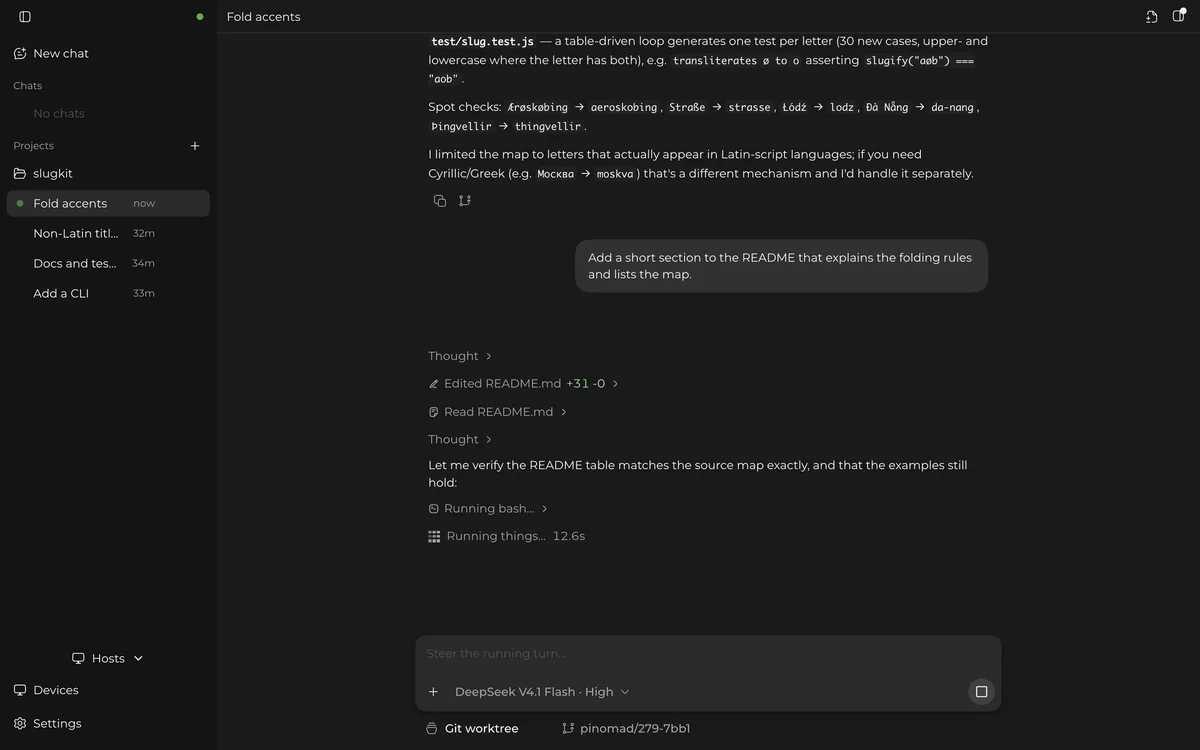
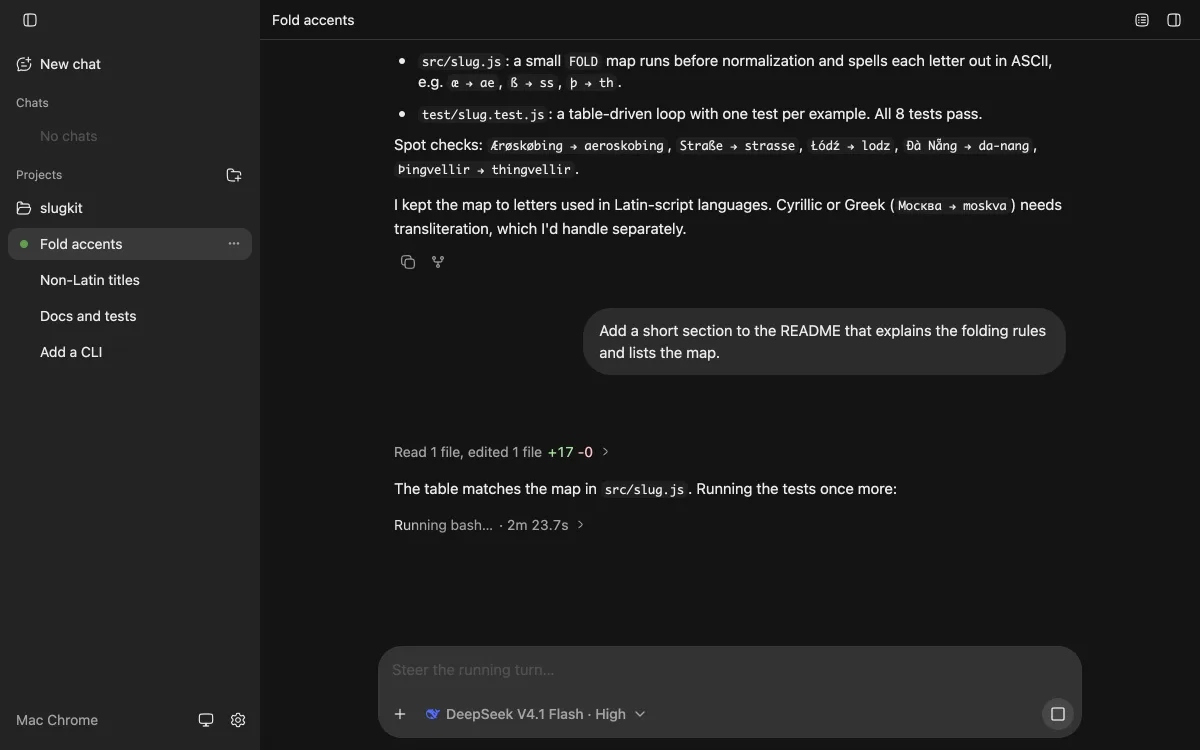
feat(site): real iPhone capture and reshot hero on the same run (#381)
* feat(site): real iPhone capture and reshot hero on the same run

The "Any screen" phone now shows a dark simulator capture of the iOS app
(1206 x 2622, en and zh) instead of the skeleton and its "screenshot
coming" caption; the hero and og:image are reshot so both show the same
run, the "Fold accents" conversation in slugkit, held mid-turn.

Both were staged on a scratch host with its own data dir and a scripted
faux model labelled DeepSeek V4.1 Flash; the read/edit/bash calls ran
for real in a small demo repo, and the last `npm test` is held open so
the run stays live. The hero is the web client in Playwright at
1200 x 750, DPR 2; the phone is a Debug build in the iPhone 17 Pro
simulator paired with -pairingLink. The hero stays the desktop window
alone, as agreed in #364 after #367.

The skeleton and caption CSS is gone with the placeholder copy key;
each image has its own alt text in both languages.

Closes #364

* chore(site): drop the OG image for now

A raw window screenshot shrunk to a share card doesn't read; a purpose-made
image will come later. The landing pages lose og:image and twitter:image,
and twitter:card falls back to summary.

diff --git a/apps/site/src/landing/copy.tsx b/apps/site/src/landing/copy.tsx
@@ -27,7 +27,7 @@ export interface LandingCopy {
     title: string;
     lead: string;
     clients: string[];
-    placeholder: string;
+    shotAlt: string;
   };
   core: {
     eyebrow: string;
@@ -112,14 +112,15 @@ export const copy: Record<Lang, LandingCopy> = {
       models: [...models, "Qwen", "Kimi", "Z.AI", "MiniMax", "OpenRouter", "GitHub Copilot"],
       modelsMore: "17 more",
       shotAlt:
-        "The PiNomad web client mid-run: conversations in the sidebar; the agent has answered, been asked for more, and is now reading and editing files and running commands",
+        "The PiNomad web client mid-run: the slugkit project's conversations in the sidebar; the agent has folded accented letters in slugs, been asked to document the rules in the README, edited it, and is running the tests again",
     },
     anywhere: {
       eyebrow: "Any screen",
       title: "Step away from your desk",
       lead: "Start a task at your desk, then check on it or steer it from your phone. The Mac app, the web client, and the iPhone app attach to the same runs.",
       clients: ["Mac app", "Web", "iPhone"],
-      placeholder: "Screenshot coming: the same run on iPhone.",
+      shotAlt:
+        "The same run in the PiNomad iPhone app: the agent's summary of the accent folding, the README request below it, and the run still going at the bottom with a stop button",
     },
     core: {
       eyebrow: "How it works",
@@ -287,14 +288,14 @@ export const copy: Record<Lang, LandingCopy> = {
       modelsLabel: "pi 支持的模型都能用",
       models: [...models, "通义千问", "Kimi", "智谱 Z.AI", "MiniMax", "OpenRouter", "GitHub Copilot"],
       modelsMore: "另有 17 家",
-      shotAlt: "PiNomad Web 客户端运行画面：左侧是对话列表，agent 答完上一轮后，正顺着追问改测试、跑测试",
+      shotAlt: "PiNomad Web 客户端运行画面：左侧是 slugkit 项目的对话列表；agent 改好了重音字母的折叠，又被要求在 README 里写明规则，改完 README 后正在重跑测试",
     },
     anywhere: {
       eyebrow: "多端接力",
       title: "离开电脑也能接着管",
       lead: "在电脑前派好活，出门拿手机看进度，方向偏了随时插话调整。Mac App、Web 和 iPhone App 连的是同一批任务。",
       clients: ["Mac App", "Web", "iPhone"],
-      placeholder: "截图待补：在 iPhone 上接着看同一个任务。",
+      shotAlt: "同一个任务在 PiNomad iPhone App 里：上面是 agent 对重音字母折叠的总结，下面是写 README 的追问，最底下任务还在跑，旁边是停止按钮",
     },
     core: {
       eyebrow: "工作方式",

diff --git a/apps/site/src/landing/sections.tsx b/apps/site/src/landing/sections.tsx
@@ -20,11 +20,9 @@ export function SectionHead({ id, eyebrow, title, lead }: { id: string; eyebrow:
   );
 }
 
-/**
- * An iPhone drawn in CSS: titanium edge, black bezel, Dynamic Island, side buttons.
- * The screen holds an abstract skeleton until the app's screenshot replaces it.
- */
-function Phone({ caption, className }: { caption: string; className: string }) {
+/** An iPhone drawn in CSS around a screenshot: titanium edge, black bezel, Dynamic Island, side buttons. */
+function Phone({ lang, alt, className }: { lang: Lang; alt: string; className: string }) {
+  const image = shot(lang, "phone", 603, 1206);
   return (
     <figure className={`phone ${className}`}>
       <div className="phone-body">
@@ -34,21 +32,18 @@ function Phone({ caption, className }: { caption: string; className: string }) {
         <span className="phone-btn btn-side" />
         <span className="phone-btn btn-camera" />
         <div className="phone-screen">
-          <div className="shot-skeleton sk-phone" aria-hidden="true">
-            <span className="sk-line w55" />
-            <div className="sk-main">
-              <span className="sk-line w85" />
-              <span className="sk-line w70" />
-              <span className="sk-line w85" />
-              <span className="sk-gap" />
-              <span className="sk-line w55" />
-              <span className="sk-line w70" />
-            </div>
-          </div>
+          <img
+            src={image.src}
+            srcSet={image.srcSet}
+            sizes="(min-width: 56rem) 18rem, 16rem"
+            width="1206"
+            height="2622"
+            alt={alt}
+            loading="lazy"
+          />
           <span className="phone-island" />
         </div>
       </div>
-      <figcaption className="shot-label">{caption}</figcaption>
     </figure>
   );
 }
@@ -97,7 +92,7 @@ export function Hero({ lang, t }: { lang: Lang; t: LandingCopy["hero"] }) {
 }
 
 /** The phone gets a section of its own: drawn as a device, it doesn't sit well beside a flat screenshot. */
-export function Anywhere({ t }: { t: LandingCopy["anywhere"] }) {
+export function Anywhere({ lang, t }: { lang: Lang; t: LandingCopy["anywhere"] }) {
   return (
     <section className="section section-showcase" id="anywhere" aria-labelledby="anywhere-title">
       <div className="wrap split">
@@ -111,7 +106,7 @@ export function Anywhere({ t }: { t: LandingCopy["anywhere"] }) {
             ))}
           </ul>
         </div>
-        <Phone caption={t.placeholder} className="showcase-phone" />
+        <Phone lang={lang} alt={t.shotAlt} className="showcase-phone" />
       </div>
     </section>
   );

diff --git a/apps/site/src/landing/meta.ts b/apps/site/src/landing/meta.ts
@@ -9,8 +9,6 @@ const copy = {
       "PiNomad is a self-hosted coding agent built on Pi Durable. It checkpoints every model and tool call, so a crash or restart picks up where it stopped; the Mac app, the web client, and the iPhone app all attach to the same runs.",
     social:
       "Runs on your machine and checkpoints every model and tool call; the Mac app, the web client, and the iPhone app all attach to the same runs.",
-    imageAlt:
-      "One PiNomad run in the web client: conversations in the sidebar, the agent mid-run with thinking and tool calls",
     locale: "en_US",
     altLocale: "zh_CN",
   },
@@ -20,7 +18,6 @@ const copy = {
       "PiNomad 是基于 Pi Durable 的自托管 coding agent，跑在你自己的机器上。每一步模型和工具调用都会存下检查点，崩溃或重启后从断处接着跑；Mac、Web 和 iPhone 客户端连向同一个宿主，随时接手正在跑的任务。",
     social:
       "跑在你自己的机器上，每一步模型和工具调用都存检查点；Mac、Web 和 iPhone 客户端连向同一个宿主，随时接手正在跑的任务。",
-    imageAlt: "PiNomad Web 客户端运行画面：左侧是对话列表，右侧 agent 正在思考并调用工具",
     locale: "zh_CN",
     altLocale: "en_US",
   },
@@ -29,7 +26,6 @@ const copy = {
 export function landingHead(lang: Lang) {
   const c = copy[lang];
   const url = lang === "zh" ? `${ORIGIN}/zh/` : `${ORIGIN}/`;
-  const image = `${ORIGIN}/og-image.jpg`;
   return {
     meta: [
       { title: c.title },
@@ -43,14 +39,9 @@ export function landingHead(lang: Lang) {
       { property: "og:url", content: url },
       { property: "og:title", content: c.title },
       { property: "og:description", content: c.social },
-      { property: "og:image", content: image },
-      { property: "og:image:width", content: "1920" },
-      { property: "og:image:height", content: "1200" },
-      { property: "og:image:alt", content: c.imageAlt },
-      { name: "twitter:card", content: "summary_large_image" },
+      { name: "twitter:card", content: "summary" },
       { name: "twitter:title", content: c.title },
       { name: "twitter:description", content: c.social },
-      { name: "twitter:image", content: image },
     ],
     links: [
       { rel: "canonical", href: url },

diff --git a/apps/site/src/landing/page.css b/apps/site/src/landing/page.css
@@ -436,8 +436,7 @@ html[lang="zh-CN"] .hero h1 {
 }
 
 /* —— Screenshots. Each slot keeps its image's aspect ratio, so the layout doesn't
-   move while it loads. A slot still waiting for its capture shows an abstract
-   skeleton: it should read as "screenshot goes here", never as the product. —— */
+   move while it loads. —— */
 .shot {
   position: relative;
   overflow: hidden;
@@ -473,57 +472,6 @@ html[lang="zh-CN"] .hero h1 {
 
 .shot-crop {
   aspect-ratio: 4 / 3;
-}
-
-.shot-skeleton {
-  position: absolute;
-  inset: 0;
-  display: grid;
-  grid-template-rows: auto 1fr;
-}
-
-.sk-main {
-  display: grid;
-  align-content: start;
-  gap: 0.85rem;
-  padding: 1.75rem clamp(1rem, 6%, 4rem);
-}
-
-.sk-line {
-  display: block;
-  height: 0.6rem;
-  border-radius: 999px;
-  background: var(--surface-2);
-}
-
-.sk-line.w40 {
-  width: 40%;
-}
-
-.sk-line.w55 {
-  width: 55%;
-}
-
-.sk-line.w70 {
-  width: 70%;
-}
-
-.sk-line.w85 {
-  width: 85%;
-}
-
-.sk-gap {
-  height: 0.75rem;
-}
-
-.shot-label {
-  position: absolute;
-  inset: auto 0 0;
-  padding: 1rem;
-  color: var(--fg-3);
-  font-size: 0.8rem;
-  text-align: center;
-  text-wrap: balance;
 }
 
 /* —— The iPhone, drawn in CSS. Sizes are in cqw, a share of the phone's own width, so
@@ -676,21 +624,6 @@ html[lang="zh-CN"] .hero h1 {
   top: 58%;
   height: 8%;
   right: -0.4cqw;
-}
-
-.phone .sk-phone {
-  padding: 20cqw 8cqw 8cqw;
-}
-
-.phone .sk-main {
-  padding: 1.25rem 0 0;
-}
-
-/* Over the bottom of the screen, inside the edge and bezel. */
-.phone .shot-label {
-  inset: auto 4.1cqw 4.1cqw;
-  padding: 6cqw;
-  font-size: max(0.65rem, 4.6cqw);
 }
 
 /* —— Sections —— */

diff --git a/apps/site/src/landing/landing.tsx b/apps/site/src/landing/landing.tsx
@@ -25,7 +25,7 @@ export function Landing({ lang, latest }: { lang: Lang; latest?: LatestRelease }
       <SiteHeader lang={lang} t={t} />
       <main id="main">
         <Hero lang={lang} t={t.hero} />
-        <Anywhere t={t.anywhere} />
+        <Anywhere lang={lang} t={t.anywhere} />
         <Core lang={lang} t={t.core} durable={t.durable} />
         <Agents lang={lang} t={t.agents} />
         <Connection t={t.connection} />

diff --git a/docs/website.md b/docs/website.md
@@ -18,7 +18,7 @@ cd apps/site && bun run build && bun run preview
 
 官网是 TanStack Start 应用，构建时把所有页面预渲染成静态文件（`dist/`），线上不跑服务端；预渲染用的服务端产物在 `.output/server/`，不发布。英文在根路径，中文在 `/zh/` 下；网址一律以 `/` 结尾（页面输出成 `<路径>/index.html`，Pages 会把不带斜杠的地址 308 过去）。
 
-- **落地页**：React 组件，在 `src/landing/`。文案在 `copy.tsx`，中英两份共用一个类型，缺了哪条 typecheck 就报错；改文案时两份一起改，功能描述以文档的 `features` 页为准。区块顺序和卖点见 #364：首屏、工作方式（本机运行、断点续跑、多端接入三格 bento）、具名 Agent、连接、接下来（还没上线的规划，虚线卡片，每项链到 issue）、开始使用。区块组件在 `sections.tsx`，有交互的单独成文件（`durable.tsx` 是"拔电源"示意图，`get-started.tsx` 带复制按钮和最新版本号，版本号由路由 loader 在预渲染时从更新日志取），页头页脚在 `site-header.tsx` / `site-footer.tsx`，页头元信息在 `meta.ts`。样式入口是 `landing.css`：页面自己的规则在 `page.css`，放在 `landing` 层里；Tailwind 的主题变量在它下面一层，utilities 在它上面一层，所以元素上的 utility 能盖过 `page.css` 的元素选择器。没有引 preflight（会改掉页面的默认样式），组件依赖的两条（`[hidden]` 和按钮继承字体）抄在 `landing.css` 末尾；Tailwind 只扫 `src/landing/` 和 `src/components/ui/`。页头的站内链接（文档、博客、更新日志、登录）和文档页的 Fumadocs 页头共用 `src/lib/nav.ts`，不放页内锚点。截图放在 `apps/site/shots/`（中英各一份，都是深色模式），每张有 2x 原图（`hero.webp` 2400×1500，`subagents.webp` 1120×840）和同名加 `-<宽>` 的 1x 版本，页面用 `srcset` 二选一（`shots.ts`）；`public/og-image.jpg` 是英文首屏图缩到 1920×1200。图标直接引用 `apps/web/public/` 里的文件，构建时打上哈希。还没画的示意图和 iPhone 截图用抽象占位（`Placeholder` / `PhonePlaceholder`，配一行说明待补什么），iPhone 截图等原生 iOS 版替换验收（#133）后补。示意图的 SVG 是 `aria-hidden` 的，读屏用的描述写在文案里。
+- **落地页**：React 组件，在 `src/landing/`。文案在 `copy.tsx`，中英两份共用一个类型，缺了哪条 typecheck 就报错；改文案时两份一起改，功能描述以文档的 `features` 页为准。区块顺序和卖点见 #364：首屏、工作方式（本机运行、断点续跑、多端接入三格 bento）、具名 Agent、连接、接下来（还没上线的规划，虚线卡片，每项链到 issue）、开始使用。区块组件在 `sections.tsx`，有交互的单独成文件（`durable.tsx` 是"拔电源"示意图，`get-started.tsx` 带复制按钮和最新版本号，版本号由路由 loader 在预渲染时从更新日志取），页头页脚在 `site-header.tsx` / `site-footer.tsx`，页头元信息在 `meta.ts`。样式入口是 `landing.css`：页面自己的规则在 `page.css`，放在 `landing` 层里；Tailwind 的主题变量在它下面一层，utilities 在它上面一层，所以元素上的 utility 能盖过 `page.css` 的元素选择器。没有引 preflight（会改掉页面的默认样式），组件依赖的两条（`[hidden]` 和按钮继承字体）抄在 `landing.css` 末尾；Tailwind 只扫 `src/landing/` 和 `src/components/ui/`。页头的站内链接（文档、博客、更新日志、登录）和文档页的 Fumadocs 页头共用 `src/lib/nav.ts`，不放页内锚点。截图放在 `apps/site/shots/`（中英各一份，都是深色模式），每张有 2x 原图（`hero.webp` 2400×1500，`phone.webp` 1206×2622，`subagents.webp` 1120×840）和同名加 `-<宽>` 的 1x 版本，页面用 `srcset` 二选一（`shots.ts`）。落地页暂时不设 OG 图（没有 `og:image`，`twitter:card` 是 `summary`），等有专门做的分享图再加。首屏和 iPhone 两张拍的是同一个任务：临时宿主（单独的数据目录）配脚本化的 faux 模型（标成 DeepSeek V4.1 Flash），读写和 bash 调用在一个小的 slugkit 演示仓库里真实执行，最后一步的 `npm test` 故意挂住，让任务停在运行中；首屏是 Web 客户端（Playwright，1200×750，DPR 2），iPhone 是模拟器里的 Debug 包（`-pairingLink` 配对）。中文版只是内容不同，两个客户端都没有中文界面。图标直接引用 `apps/web/public/` 里的文件，构建时打上哈希。示意图的 SVG 是 `aria-hidden` 的，读屏用的描述写在文案里。
 - **组件库**：`apps/site/components.json` 是 shadcn 的配置，选的是 Base UI 风格（`base-vega`，和 Fumadocs 用的同一个 Base UI，版本钉在锁文件里已有的那个）。用 `bunx shadcn add <组件>` 把组件源码复制进 `src/components/ui/`，再按落地页的样子改：shadcn 的主题名（`bg-primary`、`border-input` 等）在 `landing.css` 里映射到页面自己的变量，落地页只有深色。`button.tsx` 就是这样改过来的，链接要按钮样式时用 `buttonVariants()` 套在普通 `<a>` 上。React Bits 也走 shadcn 注册表（`@react-bits/<名字>-TS-TW`），但许可不是普通开源许可：免费版是 MIT 加 Commons Clause（可以作为网站的一部分使用，不能把组件本身再分发），Pro 版的许可明确禁止把组件放进开源仓库。这个仓库是公开的，Pro 组件不能入库；免费组件入库前先定好许可怎么标注（#360）。不要在 `apps/site` 里跑 `shadcn init`，`add` 之后也要看一眼 `landing.css` 的改动：CLI 会往里加 `@import` 和 `body`、`*` 上的基础样式，文档页和落地页都会跟着变。
 - **文档和博客**用 Fumadocs：内容在 `content/docs/`、`content/blog/`。用户文档以这里为准，仓库里的 `docs/usage.md` 等只是指向官网的链接，README 只留快速上手；中文版是同名加 `.zh` 的文件（`index.zh.mdx`），没有中文版的页面在中文站显示英文版。侧栏顺序在 `content/docs/meta.json`。搜索索引在构建时生成为 `/api/search.json`，在浏览器里搜。
 - **更新日志**：`content/changelog/` 每个版本一个文件（`v0.7.0.mdx`，中文版 `v0.7.0.zh.mdx`），frontmatter 写 `title`、`version`、`date`，正文写给用户看的变化，不照搬 GitHub Release 自动生成的 PR 列表。`/changelog/` 一页按日期倒序列出全部版本，每条链到对应的 GitHub Release。
